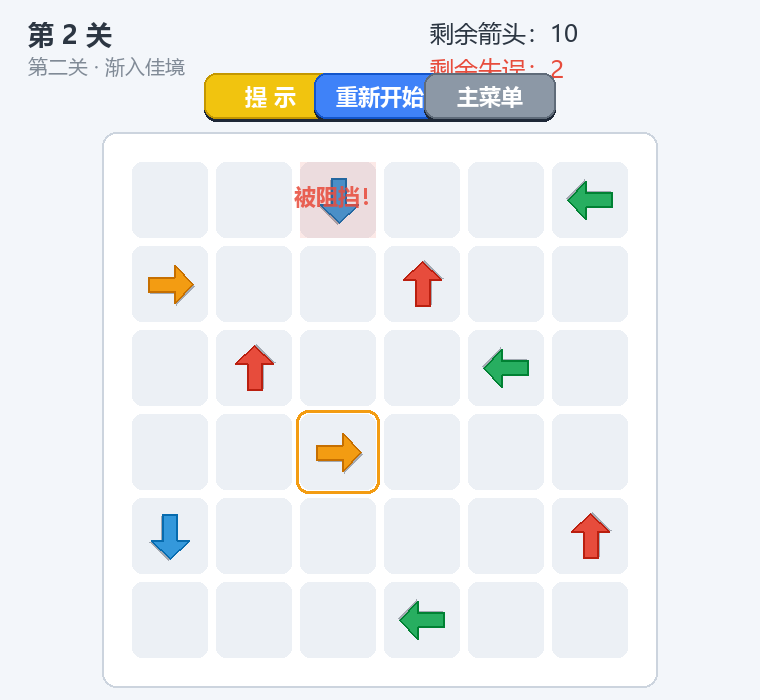
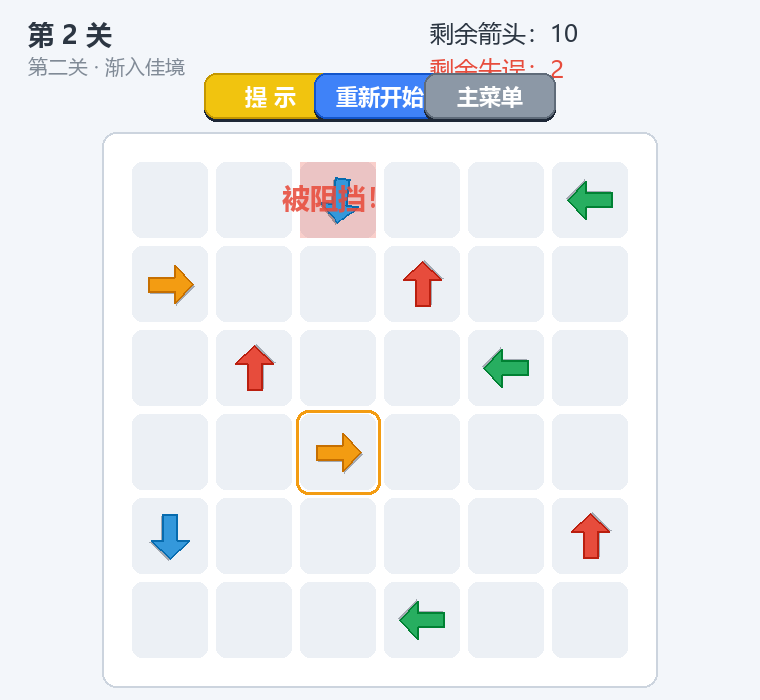
fix: 强化碰撞反馈，确保被阻挡箭头全程清晰可见
- 红色闪烁层改为画在箭头下层（此前盖在箭头上方，箭头会短暂
  变色、视觉上像消失），箭头保持原色始终可见
- 晃动幅度 5px->7px，并新增正负10度的小幅摇摆，碰撞感更强
- 红色闪烁增强（透明度 95->150，时长 0.18s->0.22s）
- "被阻挡！"提示文字加大（22px->28px）
- 圈出阻挡箭头的橙色圆环改为脉动效果，时长 0.4s->0.6s
- 重新生成截图与演示 GIF

Changed region(s): [[0.3632, 0.21, 0.5145, 0.36]]

diff --git a/game/app.py b/game/app.py
@@ -64,7 +64,7 @@ class FlyingArrow:
 
 
 class Collision:
-    """碰撞特效：箭头原地晃动 + 红色闪烁。"""
+    """碰撞特效：箭头原地晃动 + 摇摆 + 红色闪烁（闪烁在箭头下层）。"""
 
     def __init__(self, arrow, cell_rect):
         self.arrow = arrow
@@ -83,30 +83,38 @@ class Collision:
     def offset(self):
         # 正弦晃动，振幅随时间衰减
         k = self.t / self.duration
-        return math.sin(self.t * 55) * 5 * (1 - k)
+        return math.sin(self.t * 55) * 7 * (1 - k)
+
+    @property
+    def angle(self):
+        # 小幅摇摆，增强"撞上东西"的感觉
+        k = self.t / self.duration
+        return math.sin(self.t * 40) * 10 * (1 - k)
 
     def draw(self, surface):
+        # 前 0.22 秒红色闪烁，画在箭头下层：箭头始终保持清晰可见，
+        # 不会因为被红色盖住而看起来像"消失"
+        flash = max(0.0, 1 - self.t / 0.22)
+        if flash > 0:
+            overlay = pygame.Surface(self.rect.size, pygame.SRCALPHA)
+            overlay.fill((231, 76, 60, int(150 * flash)))
+            surface.blit(overlay, self.rect)
         color = config.ARROW_COLORS[self.arrow.direction]
         center = (self.rect.centerx + self.offset, self.rect.centery)
         draw_arrow(surface, center, self.arrow.direction,
-                   int(config.CELL * 0.66), color)
-        # 前 0.18 秒在箭头上叠加红色闪烁
-        flash = max(0.0, 1 - self.t / 0.18)
-        if flash > 0:
-            overlay = pygame.Surface(self.rect.size, pygame.SRCALPHA)
-            overlay.fill((231, 76, 60, int(95 * flash)))
-            surface.blit(overlay, self.rect)
+                   int(config.CELL * 0.66), color, angle_offset=self.angle)
 
 
 class FloatText:
     """向上漂浮并淡出的提示文字（如"被阻挡！"）。"""
 
-    def __init__(self, text, start_center, color, seconds=0.9):
+    def __init__(self, text, start_center, color, seconds=1.0, font_size=22):
         self.text = text
         self.pos = pygame.Vector2(start_center)
         self.color = color
         self.t = 0.0
         self.seconds = seconds
+        self.font_size = font_size
 
     @property
     def done(self):
@@ -114,11 +122,11 @@ class FloatText:
 
     def update(self, dt):
         self.t += dt
-        self.pos.y -= 34 * dt
+        self.pos.y -= 30 * dt
 
     def draw(self, surface):
         k = self.t / self.seconds
-        img = get_font(22, True).render(self.text, True, self.color)
+        img = get_font(self.font_size, True).render(self.text, True, self.color)
         img.set_alpha(int(255 * (1 - k)))
         surface.blit(img, img.get_rect(center=self.pos))
 
@@ -322,7 +330,8 @@ class GameScene:
             rect = self.cell_rect(*cell)
             self.collisions[cell] = Collision(result.arrow, rect)
             self.blocker_ring = (self.cell_rect(result.blocker.row, result.blocker.col), 0.0)
-            self.float_texts.append(FloatText("被阻挡！", rect.center, config.DANGER))
+            self.float_texts.append(FloatText("被阻挡！", rect.center, config.DANGER,
+                                              font_size=28))
             if self.game.status == "failed":
                 self._schedule("failed")
         else:  # FLY_OUT
@@ -419,10 +428,11 @@ class GameScene:
                                config.ARROW_COLORS[arrow.direction])
 
     def _draw_rings(self, surface):
-        # 碰撞瞬间圈出阻挡箭头（橙色，0.4 秒）
-        if self.blocker_ring and self.blocker_ring[1] < 0.4:
-            rect, _ = self.blocker_ring
-            pygame.draw.rect(surface, config.ORANGE, rect.inflate(8, 8), 3,
+        # 碰撞瞬间圈出阻挡箭头（橙色脉动圆环，0.6 秒）
+        if self.blocker_ring and self.blocker_ring[1] < 0.6:
+            rect, t = self.blocker_ring
+            grow = 8 + 3 * math.sin(t * 22)
+            pygame.draw.rect(surface, config.ORANGE, rect.inflate(grow, grow), 3,
                              border_radius=12)
         # 提示高亮：金色呼吸圆环
         if self.hint:

diff --git a/game/assets.py b/game/assets.py
@@ -84,12 +84,13 @@ def _darken(color, amount):
 _ARROW_CACHE = {}
 
 
-def draw_arrow(surface, center, direction, size, color, alpha=255):
+def draw_arrow(surface, center, direction, size, color, alpha=255, angle_offset=0.0):
     """在 center 处绘制一支指向 direction 的箭头。
 
     实现方式：先画一支朝右的箭头底图，再按方向旋转。注意 pygame 的
     rotate 正角度为屏幕顺时针方向（已验证），因此映射为：
     右 0° / 上 90° / 左 180° / 下 270°，旋转结果带缓存。
+    angle_offset 为附加的瞬时旋转角（用于碰撞晃动时的小幅摇摆）。
     """
     key = (size, color, direction)
     rotated = _ARROW_CACHE.get(key)
@@ -110,9 +111,12 @@ def draw_arrow(surface, center, direction, size, color, alpha=255):
         rotated = pygame.transform.rotate(base, angle)
         _ARROW_CACHE[key] = rotated
 
-    if alpha != 255:
+    if angle_offset or alpha != 255:
         rotated = rotated.copy()
-        rotated.set_alpha(alpha)
+        if angle_offset:
+            rotated = pygame.transform.rotate(rotated, angle_offset)
+        if alpha != 255:
+            rotated.set_alpha(alpha)
     surface.blit(rotated, rotated.get_rect(center=center))
 
 
